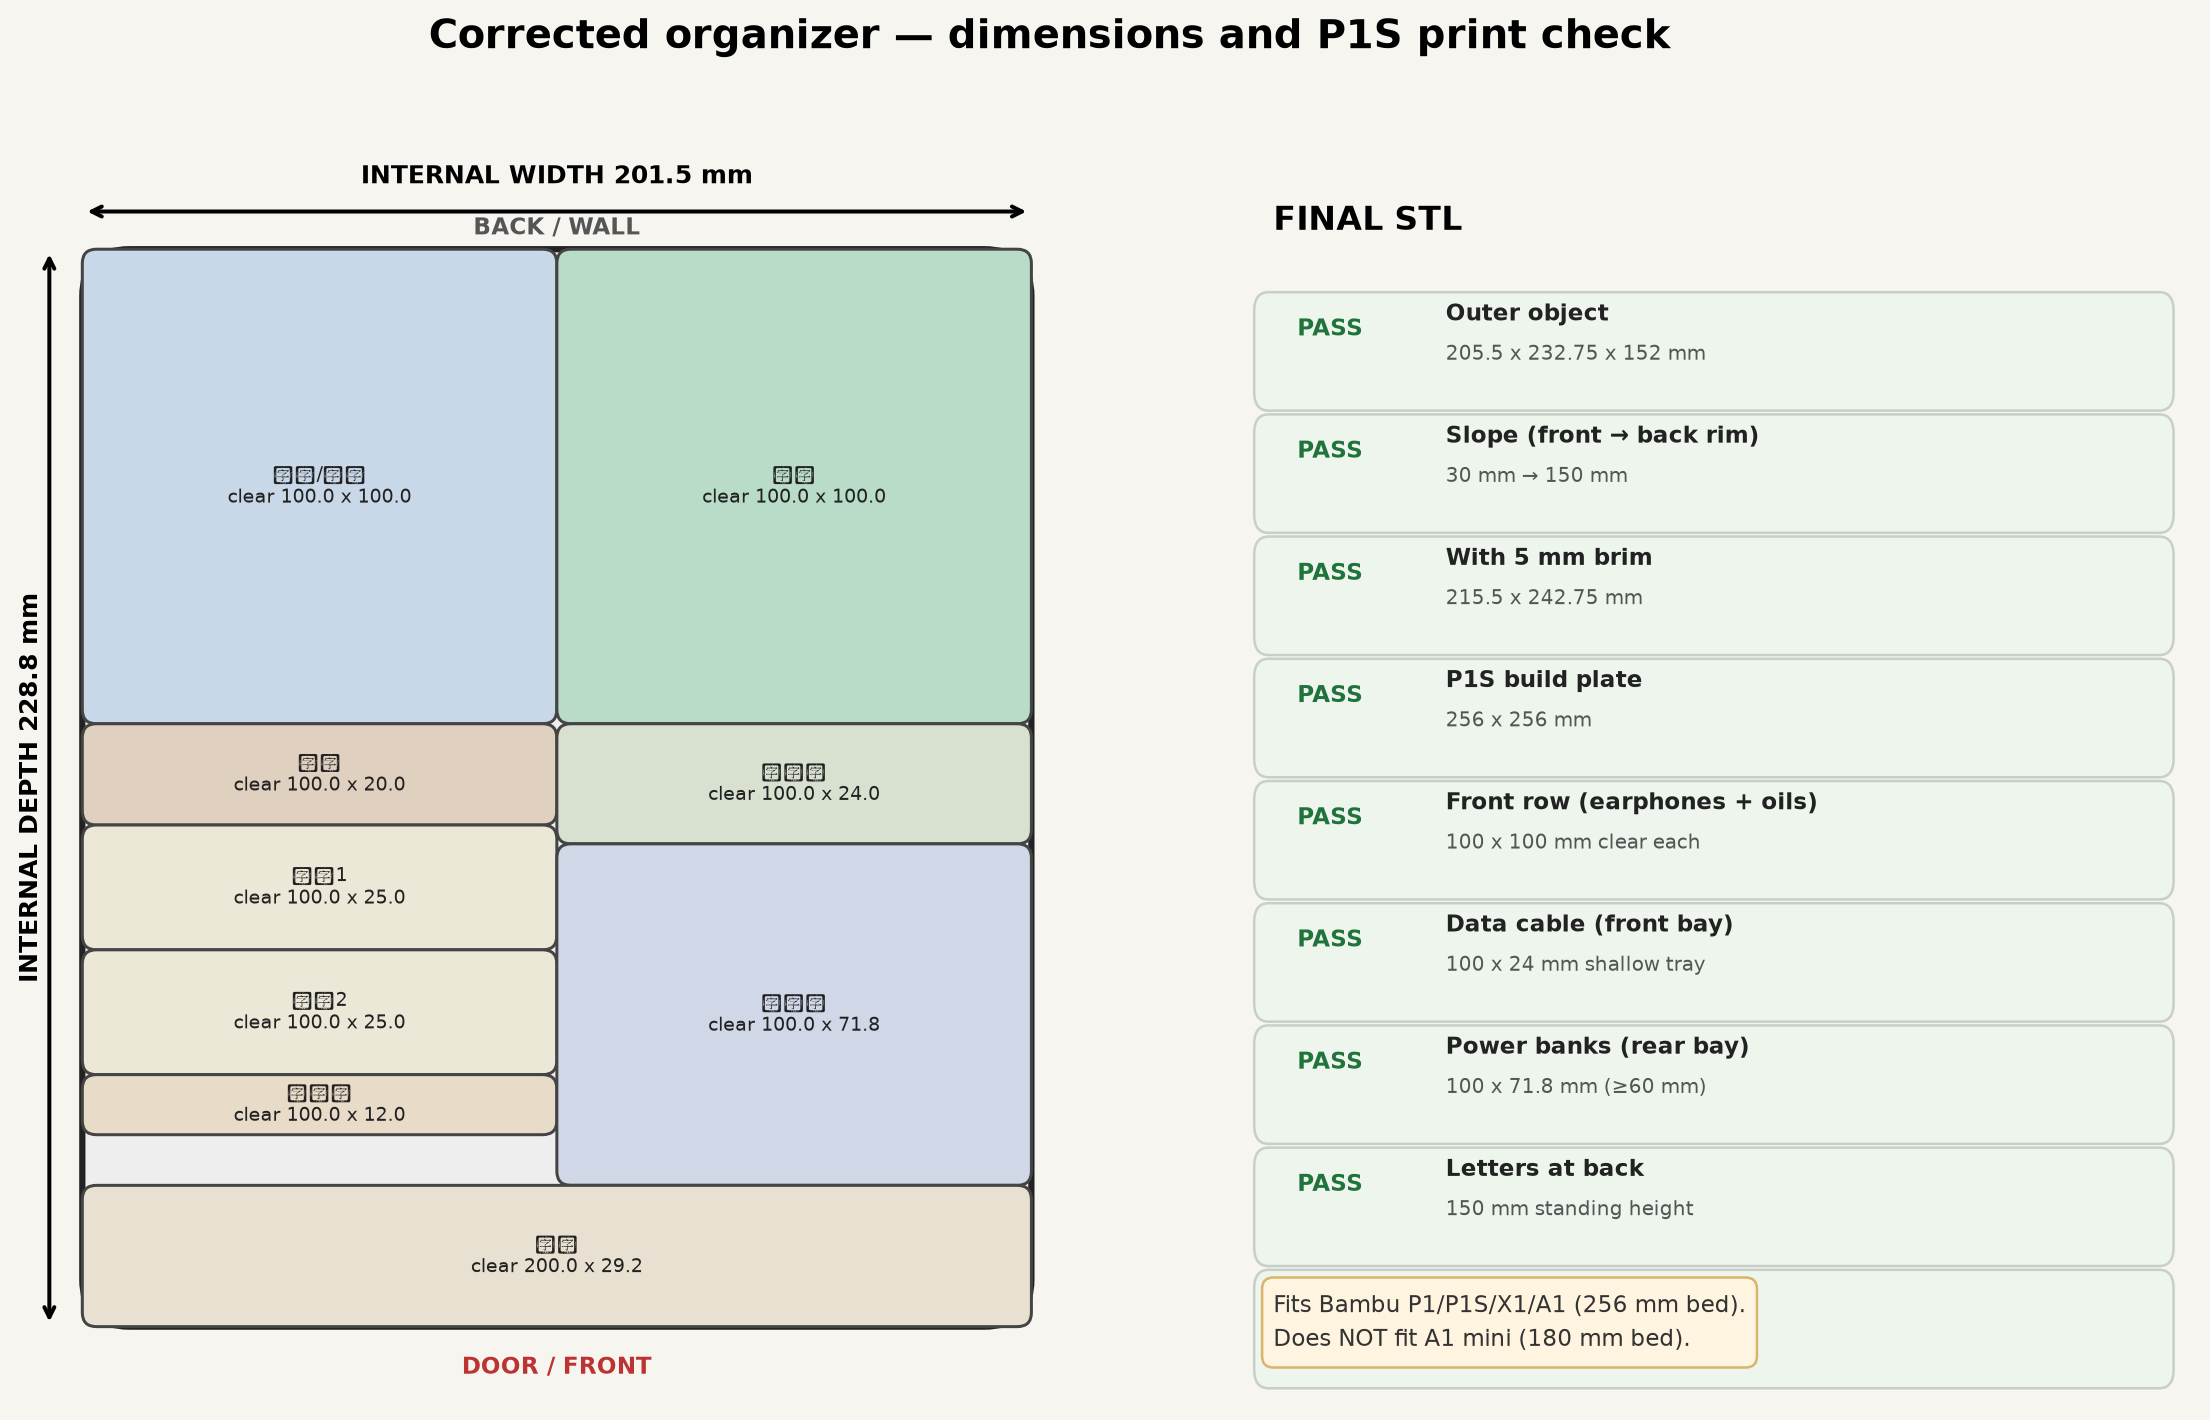
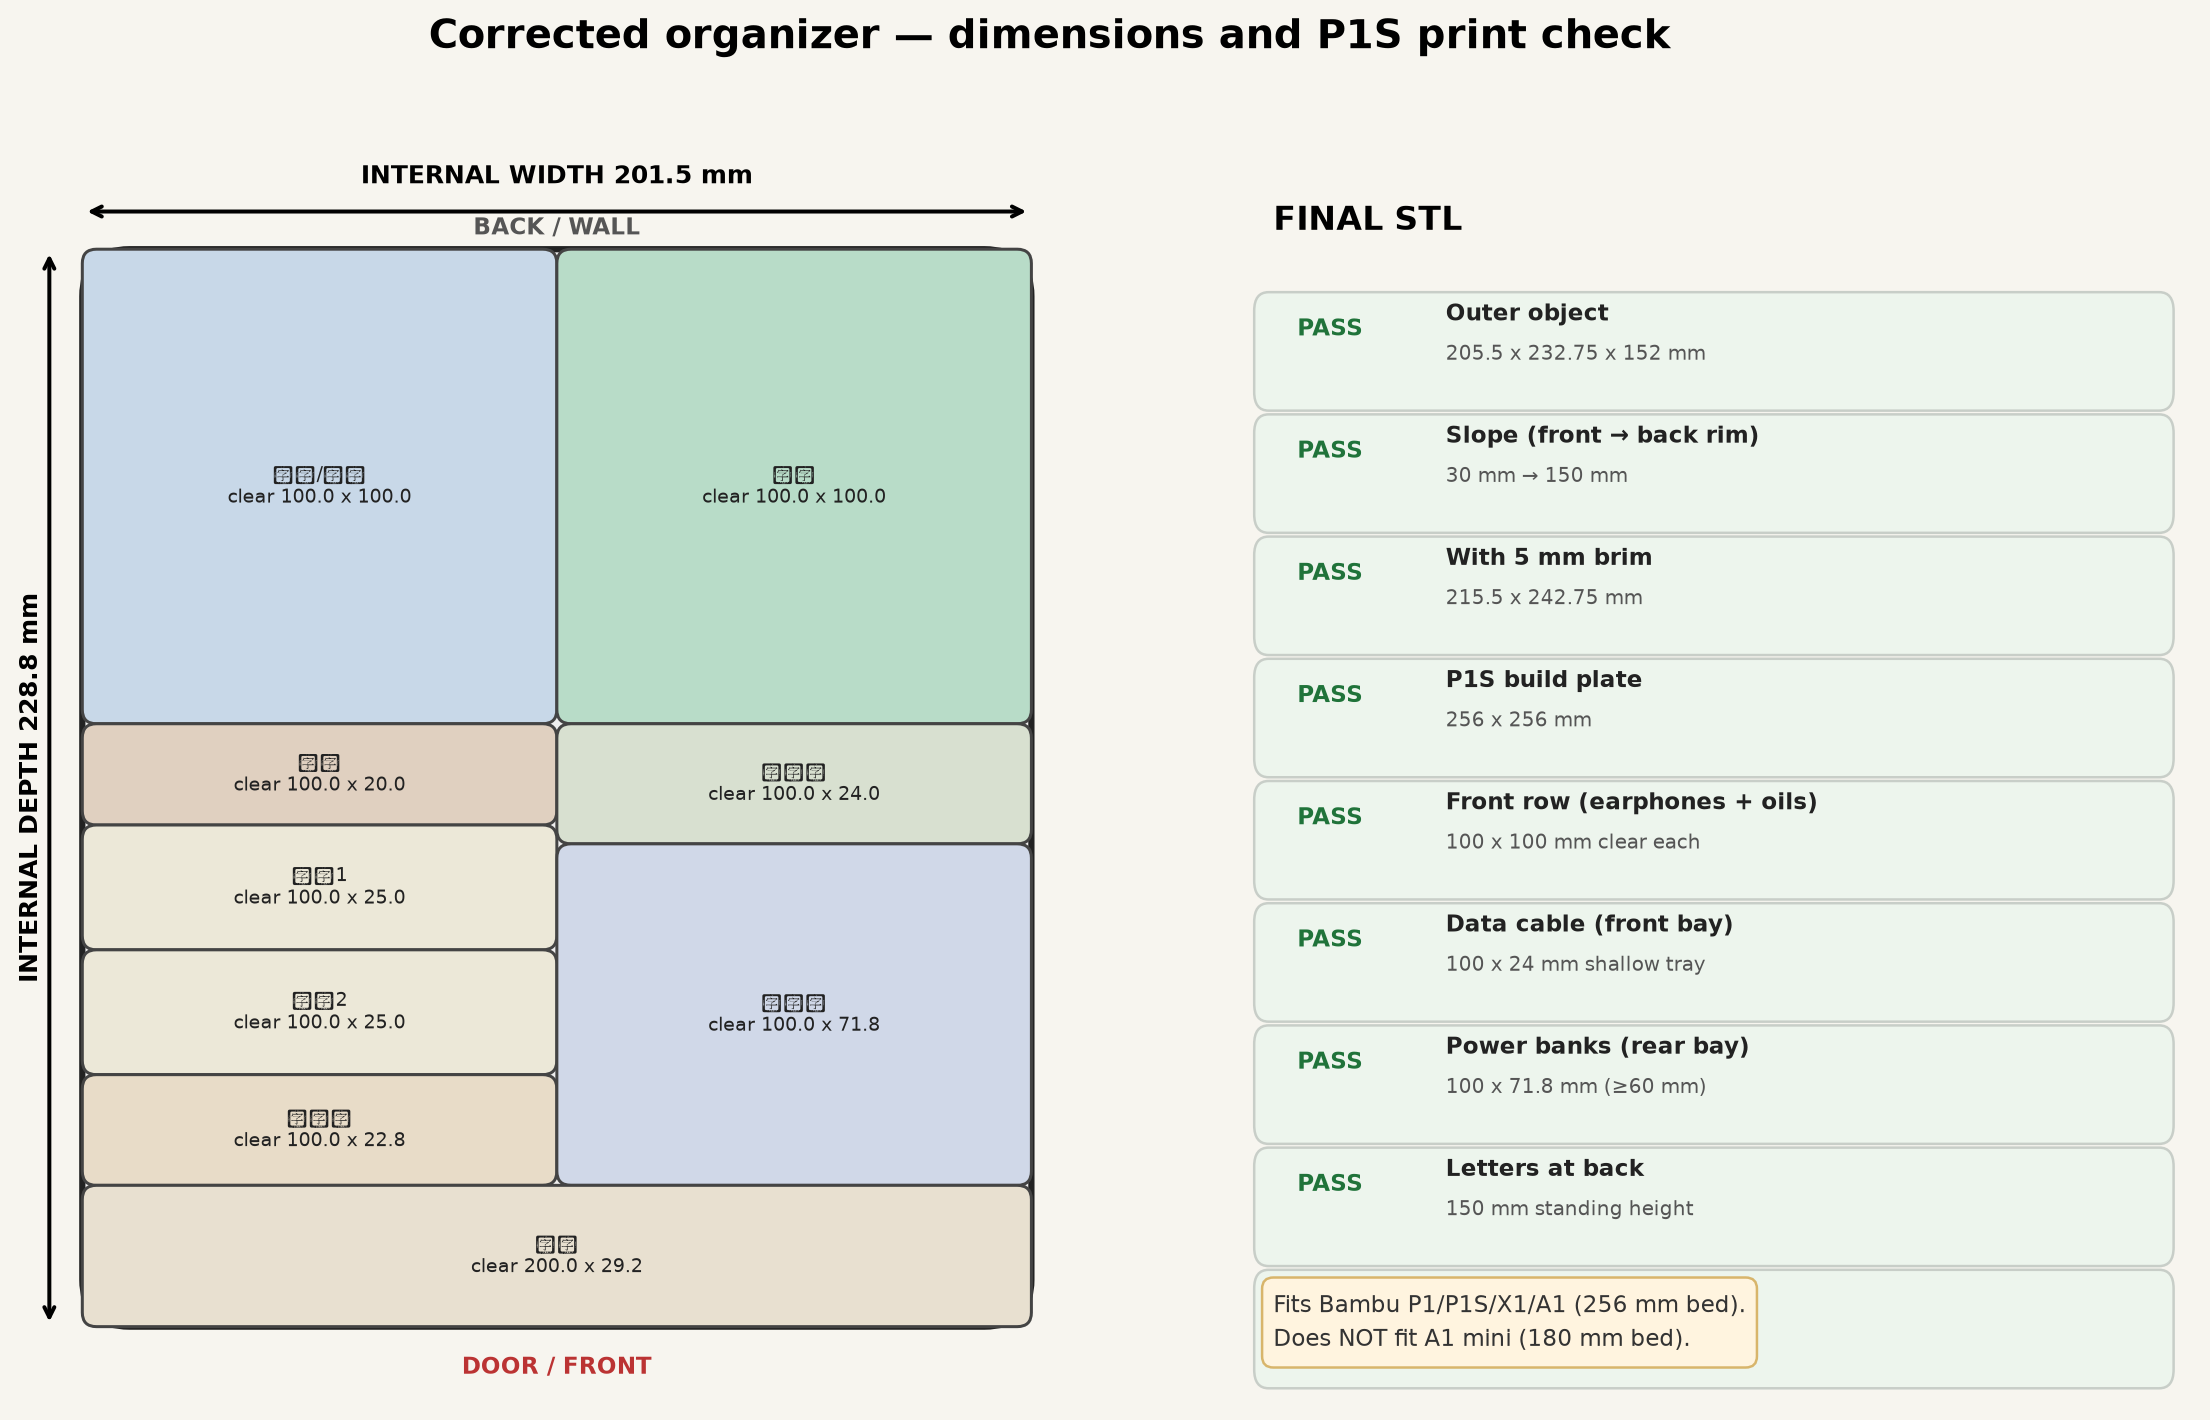
Extend misc_cards to fill left mid column gap
- Compute left_misc_span as remainder of 98 mm mid row (no 10.75 mm dead zone)
-散卡片 net depth grows from 12 mm to 22.75 mm; Y range 175→199
- Regenerate STL, SVG, HTML dimension sheet, and preview PNGs

Changed region(s): [[0.0312, 0.7437, 0.2498, 0.8366]]

diff --git a/viewer/dimensions.html b/viewer/dimensions.html
@@ -67,7 +67,7 @@
       </tr>
     </thead>
     <tbody>
-      <tr><td>耳机/杂物</td><td>100.00</td><td>100.00</td><td>20.0</td><td>70.0</td><td>0 → 101</td></tr><tr><td>精油</td><td>100.00</td><td>100.00</td><td>20.0</td><td>70.0</td><td>0 → 101</td></tr><tr><td>收据</td><td>100.00</td><td>20.00</td><td>70.0</td><td>81.8</td><td>101 → 122</td></tr><tr><td>卡片1</td><td>100.00</td><td>25.00</td><td>80.0</td><td>80.0</td><td>122 → 149</td></tr><tr><td>卡片2</td><td>100.00</td><td>25.00</td><td>80.0</td><td>80.0</td><td>149 → 175</td></tr><tr><td>散卡片</td><td>100.00</td><td>12.00</td><td>110.7</td><td>117.7</td><td>175 → 188</td></tr><tr><td>数据线</td><td>100.00</td><td>24.00</td><td>70.0</td><td>83.9</td><td>101 → 126</td></tr><tr><td>充电宝</td><td>100.00</td><td>71.75</td><td>83.9</td><td>123.6</td><td>126 → 199</td></tr><tr><td>信件</td><td>200.00</td><td>29.25</td><td>123.6</td><td>140.0</td><td>199 → 229</td></tr>
+      <tr><td>耳机/杂物</td><td>100.00</td><td>100.00</td><td>20.0</td><td>70.0</td><td>0 → 101</td></tr><tr><td>精油</td><td>100.00</td><td>100.00</td><td>20.0</td><td>70.0</td><td>0 → 101</td></tr><tr><td>收据</td><td>100.00</td><td>20.00</td><td>70.0</td><td>81.8</td><td>101 → 122</td></tr><tr><td>卡片1</td><td>100.00</td><td>25.00</td><td>80.0</td><td>80.0</td><td>122 → 149</td></tr><tr><td>卡片2</td><td>100.00</td><td>25.00</td><td>80.0</td><td>80.0</td><td>149 → 175</td></tr><tr><td>散卡片</td><td>100.00</td><td>22.75</td><td>110.7</td><td>123.6</td><td>175 → 199</td></tr><tr><td>数据线</td><td>100.00</td><td>24.00</td><td>70.0</td><td>83.9</td><td>101 → 126</td></tr><tr><td>充电宝</td><td>100.00</td><td>71.75</td><td>83.9</td><td>123.6</td><td>126 → 199</td></tr><tr><td>信件</td><td>200.00</td><td>29.25</td><td>123.6</td><td>140.0</td><td>199 → 229</td></tr>
     </tbody>
   </table>
 

diff --git a/scripts/generate_entryway_storage_box.py b/scripts/generate_entryway_storage_box.py
@@ -46,12 +46,11 @@ class Layout:
     margin_x: float = 21.0  # wider side margins → 横长方形 (宽 > 深)
     margin_y: float = 4.0
     front_clear_d: float = 100.0  # internal clear depth — earphones / oils row
-    # 98 mm mid — left clear depths: receipts 20, cards 25+25, misc 12
+    # 98 mm mid — left clear depths: receipts 20, cards 25+25; misc fills remainder
     mid_h: float = 98.0
     letters_h: float = 30.0
     left_receipts_clear: float = 20.0
     left_card_clear: float = 25.0
-    left_misc_clear: float = 12.0
     right_cable_clear: float = 24.0  # shallow front bay (front of right mid column)
     right_power_banks_clear_min: float = 60.0
 
@@ -73,8 +72,12 @@ class Layout:
 
     @property
     def left_misc_span(self) -> float:
-        # Back of misc opens toward letters bulkhead — only front divider eats 0.75 mm.
-        return self.left_misc_clear + DIVIDER / 2
+        # Fill left mid column to ym1 — no dead zone before letters band.
+        return self.mid_h - self.left_receipts_span - 2 * self.left_card_span
+
+    @property
+    def left_misc_clear(self) -> float:
+        return self.left_misc_span - DIVIDER / 2
 
     @property
     def right_cable_span(self) -> float:

diff --git a/scripts/verify_entryway_dimensions.py b/scripts/verify_entryway_dimensions.py
@@ -123,7 +123,7 @@ def verify_item_clearances(report: dict) -> list[str]:
         ("卡片1", 85.6, 25.0, "竖卡 25 mm 内腔深"),
         ("卡片2", 85.6, 25.0, "竖卡 25 mm 内腔深"),
         ("收据", 85.6, 20.0, "收据 20 mm 内腔深"),
-        ("散卡片", 85.6, 12.0, "散卡片 12 mm 内腔深"),
+        ("散卡片", 85.6, 22.0, "散卡片填满左列中层余量"),
         ("信件", 180.0, 5.0, "信件 footprint"),
     ]
     for name, req_w, req_d, note in checks:

diff --git a/scripts/entryway_layouts.py b/scripts/entryway_layouts.py
@@ -12,7 +12,7 @@ FRONT = 100.0
 MID = 98.0
 LEFT_RECEIPTS_SPAN = 21.5
 LEFT_CARD_SPAN = 26.5
-LEFT_MISC_SPAN = 12.75
+LEFT_MISC_SPAN = MID - LEFT_RECEIPTS_SPAN - 2 * LEFT_CARD_SPAN  # fills mid row (no gap)
 RIGHT_CABLE_SPAN = 25.5  # 24 mm clear + 1.5 mm divider (shallow front bay)
 RIGHT_PB_SPAN = 72.5  # remainder of 98 mm mid row (≥60 mm clear)
 LETTERS = 30.0

diff --git a/scripts/render_sketch_diagram.py b/scripts/render_sketch_diagram.py
@@ -28,7 +28,7 @@ LABELS = {
     "receipts": "收据\n20",
     "card_1": "卡1\n25",
     "card_2": "卡2\n25",
-    "misc_cards": "散卡片\n12",
+    "misc_cards": "散卡片\n22",
     "data_cable": "数据线\n24 浅",
     "power_banks": "充电宝\n72 深",
     "letters": "信件",

diff --git a/output/ENTRYWAY_DIMENSIONS.md b/output/ENTRYWAY_DIMENSIONS.md
@@ -15,7 +15,7 @@
 | 收据 | 100.00 | 20.00 | 70.0 | 81.8 | 101 → 122 |
 | 卡片1 | 100.00 | 25.00 | 80.0 | 80.0 | 122 → 149 |
 | 卡片2 | 100.00 | 25.00 | 80.0 | 80.0 | 149 → 175 |
-| 散卡片 | 100.00 | 12.00 | 110.7 | 117.7 | 175 → 188 |
+| 散卡片 | 100.00 | 22.75 | 110.7 | 123.6 | 175 → 199 |
 | 数据线 | 100.00 | 24.00 | 70.0 | 83.9 | 101 → 126 |
 | 充电宝 | 100.00 | 71.75 | 83.9 | 123.6 | 126 → 199 |
 | 信件 | 200.00 | 29.25 | 123.6 | 140.0 | 199 → 229 |
